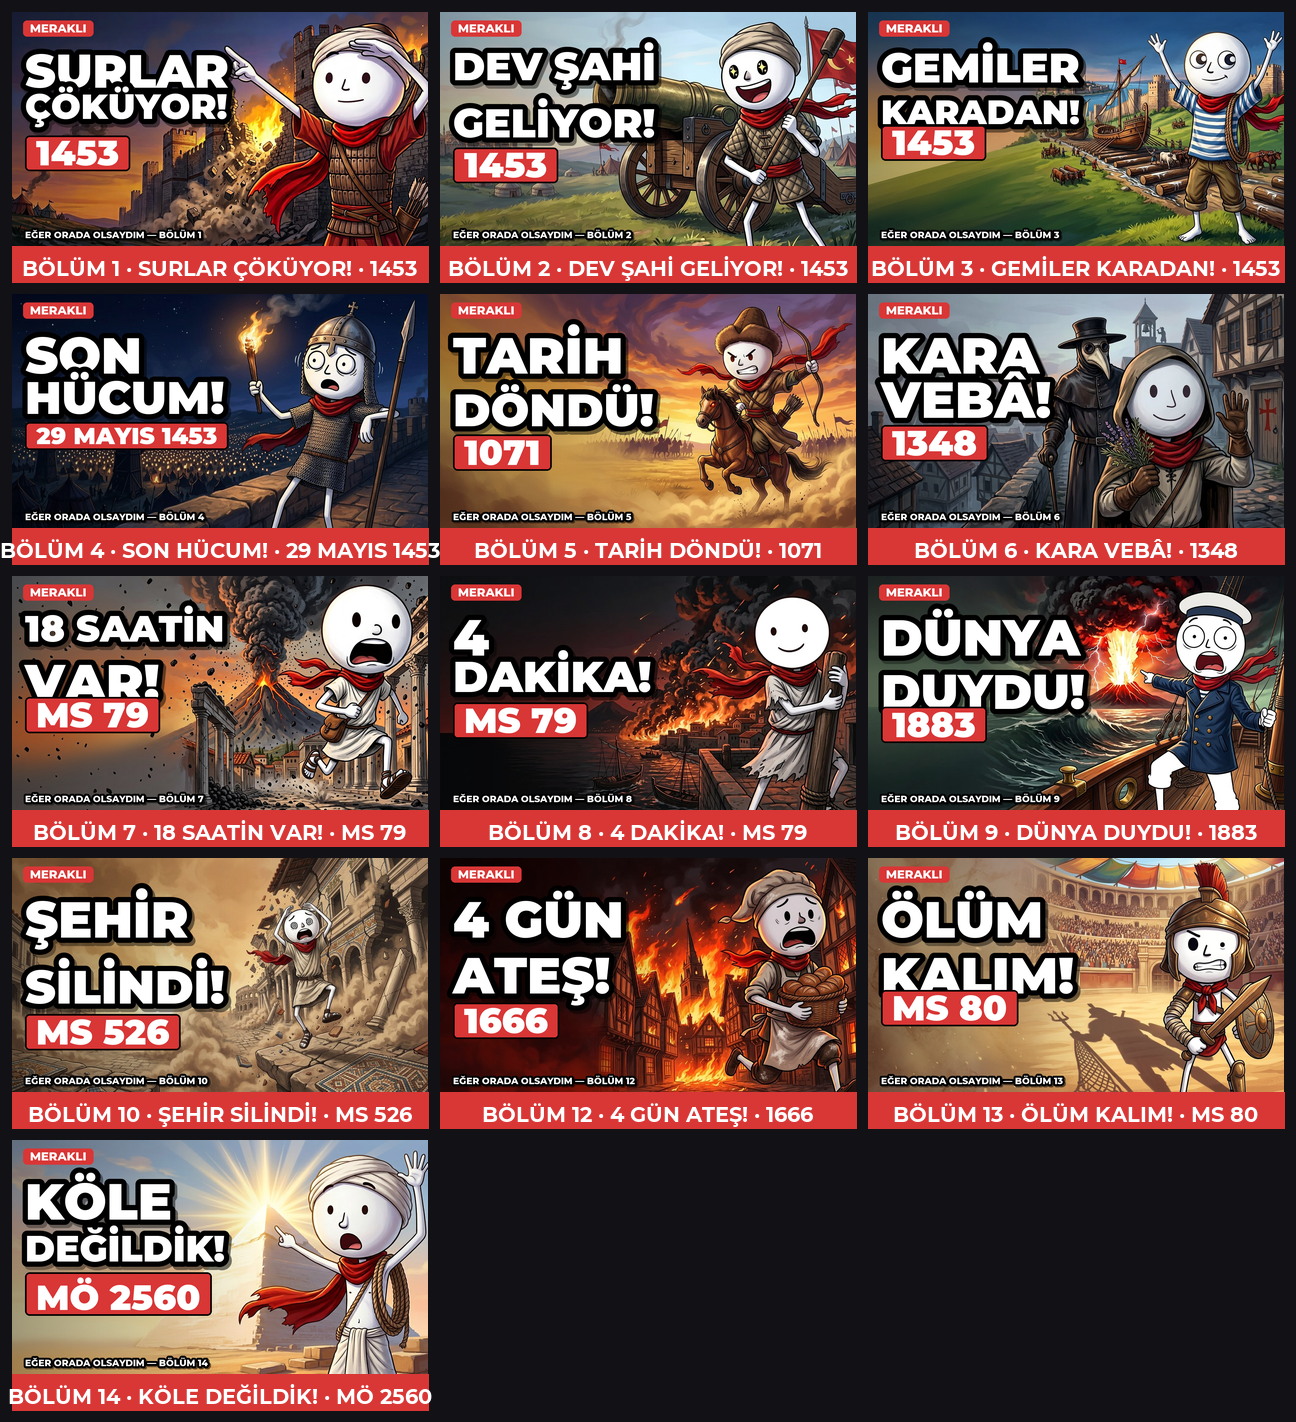
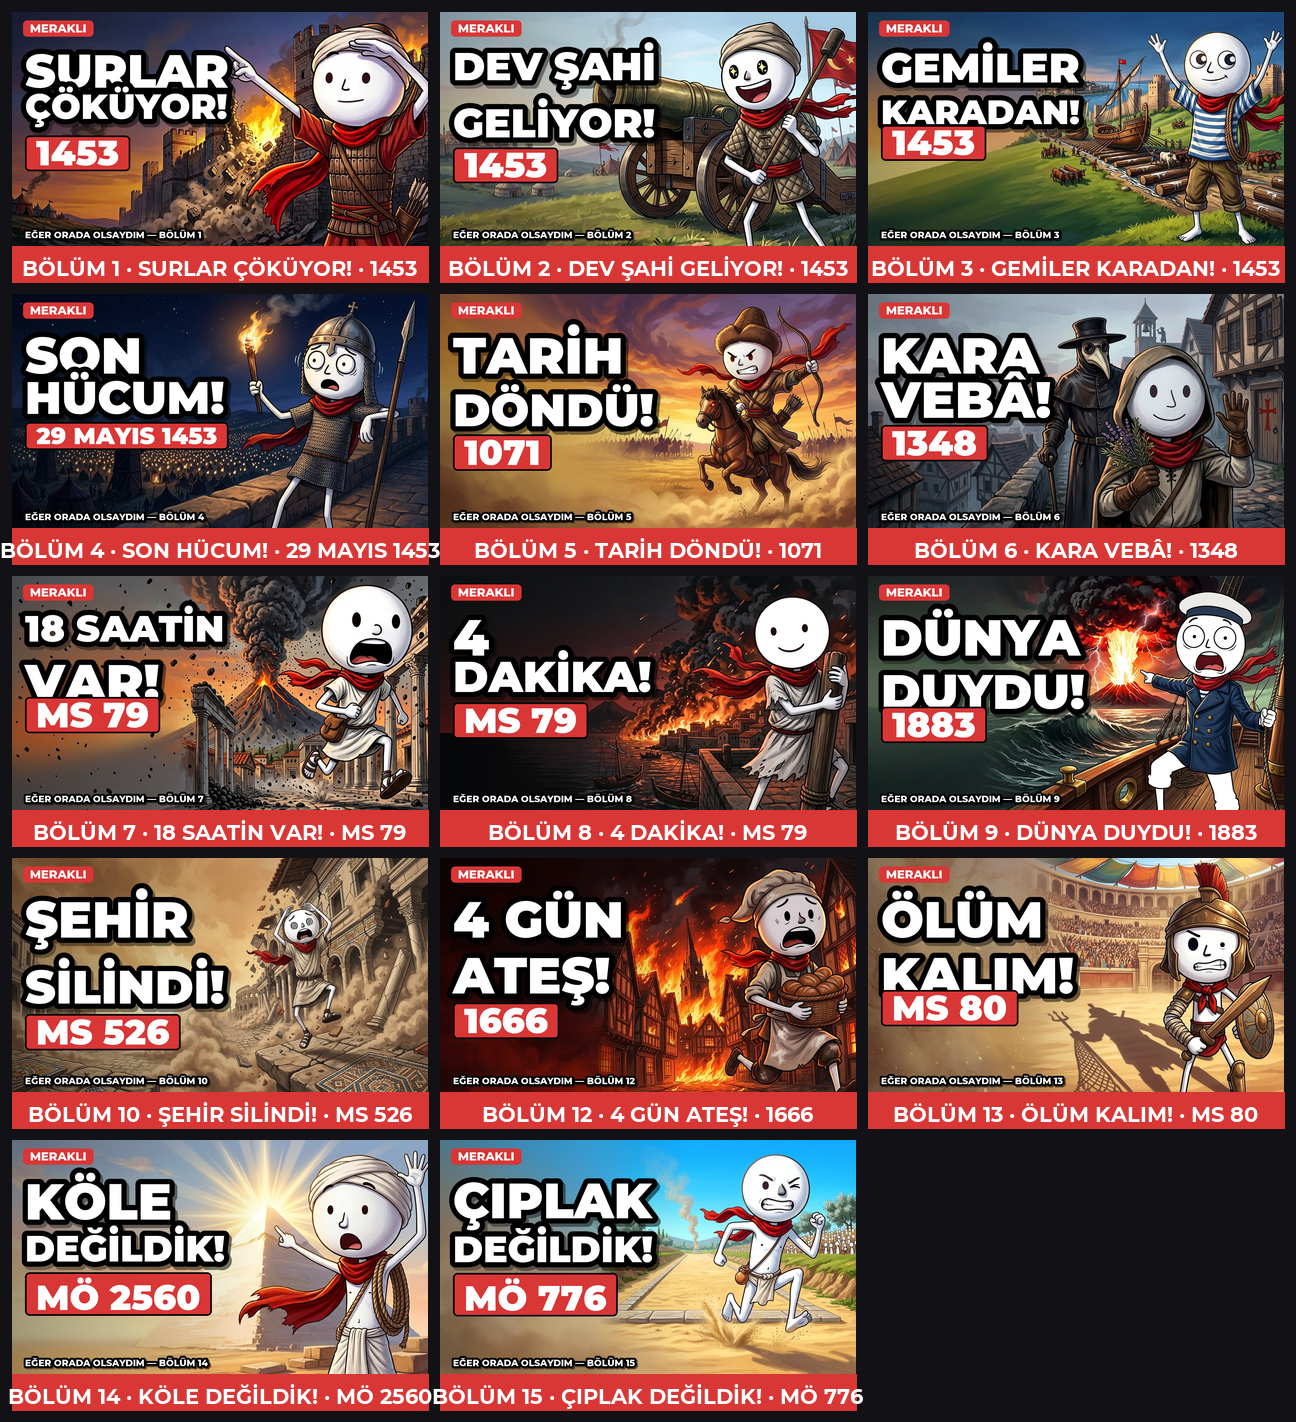
B015 MÜHÜR: YAYIN.md (20 damga + dürüst tarih notu: peştemal/776, tapınak yok, ateşkes güvenli geçiş, Hippias sözlü gelenek, meşale 1936) + SFX künyesi B015 + v4 kapak bolum-015.png (ÇIPLAK DEĞİLDİK! / MÖ 776) + ONIZLEME 14 kapak + YOL_HARİTASI B15 ✅ + BOLUM-PLANI mühür

Changed region(s): [[0.3395, 0.8045, 0.679, 1.0]]

diff --git a/araclar/thumbnail_yap.py b/araclar/thumbnail_yap.py
@@ -54,6 +54,7 @@ BOLUMLER = {
     "012": dict(buyuk="4 GÜN\nATEŞ!", vurgu="1666"),
     "013": dict(buyuk="ÖLÜM\nKALIM!", vurgu="MS 80"),
     "014": dict(buyuk="KÖLE\nDEĞİLDİK!", vurgu="MÖ 2560"),
+    "015": dict(buyuk="ÇIPLAK\nDEĞİLDİK!", vurgu="MÖ 776"),
 }
 
 

diff --git a/bolumler/015-ilk-olimpiyat/YAYIN.md b/bolumler/015-ilk-olimpiyat/YAYIN.md
@@ -1,0 +1,86 @@
+# BÖLÜM 015 — İLK OLİMPİYAT KOŞUCUSU MÖ 776 · YAYIN DOSYASI (YALNIZ UZUN VİDEO)
+
+Rol: MÖ 776'da Olimpia'da stadyum koşucusu Meraklı (kurgu karakter;
+Koroibos'un ilk kayıtlı şampiyonluğu, stadion ölçüsü 192,27 m, ateşkes
+ekecheiria, Hellanodikai, kotinos ve Heraia tarihsel dayanaklıdır —
+başlıca kaynaklar Hippias/Pausanias kazanan listeleri, Yunan Kültür
+Bakanlığı Olimpia kazı sayfası ve Metropolitan Museum/Olympic.org
+dokümantasyonudur).
+Not: Konu 24 (Seri C — Antik Yaşam) bu bölümde işlenmiştir.
+
+---
+
+## VİDEO — UZUN VİDEO (ana bölüm)
+
+**Dosya:** `uzun/merakli-015-uzun-olimpiyat.mp4` · 10:08 · 1920×1080 · 20 sahne
+**Küçük resim:** `kapaklar/thumbnail/bolum-015.png` (1280×720, v4 standardı)
+
+### BAŞLIK (kopyala-yapıştır)
+
+```
+EĞER MÖ 776'DA OLSAYDIM: OLİMPİA — İlk Olimpiyat Koşucusu 🏃🫒 [TAM BÖLÜM]
+```
+
+### AÇIKLAMA (kopyala-yapıştır)
+
+```
+MÖ 776, Olimpia. Ben Meraklı: tarihin ilk kayıtlı yarışına
+diziliyorum. Peştemalım belimde, yağ şişem kemerimde... ve sana bir
+sır: bildiğin "çıplak atlet" imajı henüz icat edilmedi!
+
+Bu bölümde:
+⏱ 0:04 — OLİMPİA'YA GİDEN YOL
+⏱ 0:31 — DÖRT YILDA BIR FESTİVAL
+⏱ 0:59 — EKECHEİRİA: KUTSAL ATEŞKES
+⏱ 1:34 — ÇINAR ALTI GECE
+⏱ 2:02 — ALTİS: MERMER YOK!
+⏱ 2:35 — KAYIT VE YEMİN
+⏱ 3:03 — ATLET KAMPI
+⏱ 3:34 — ÇIPLAK DEĞİL — HENÜZ!
+⏱ 4:06 — ZEYTİNYAĞI RİTÜELİ
+⏱ 4:40 — BALBİS: START TAŞI
+⏱ 5:11 — KOROİBOS
+⏱ 5:41 — TEK DAL: STADION
+⏱ 6:09 — SEYİRCİ BAYIRLARI
+⏱ 6:35 — HERAİA: KIZLARIN KOŞUSU
+⏱ 7:03 — FESTİVAL SABAHI
+⏱ 7:30 — YARIŞ ANI
+⏱ 7:54 — SONUÇ: İLK ŞAMPİYON
+⏱ 8:20 — KOTİNOS
+⏱ 8:51 — DÜRÜST TARİH
+⏱ 9:22 — 2772 YIL SONRA
+(Zaman damgaları yaklaşıktır; YouTube Studio'da ince ayar yapın.)
+
+📌 DÜRÜST TARİH NOTU: "Koşucu Meraklı" kurgu bir karakterdir. Gerçek
+olan: İlk KAYITLI Olimpiyat MÖ 776'da tek dal olarak koşuldu;
+kazanan Elis'li aşçı-fırıncı Koroibos'tur (stadion: 600 ayak ≈ 192,27
+m). Listeler, Elis'li Hippias'ın MÖ ~400 derlemesinden gelir (büyük
+ölçüde sözlü gelenek); "776'dan önceki oyunlar" rivayettir. 776'da
+atletler ÇIPLAK DEĞİLDİ — perizoma (peştemal) giyiyorlardı; çıplak
+yarışma Megaralı Orsippos ile MÖ 720'de başlar. Olimpia şehir değil
+kutsal kordur (Altis); Büyük Zeus Tapınağı ve heykeli ~300 yıl sonra
+yapılacaktır. Ekecheiria ateşkesi SAVAŞLARI DURDURMAZ; yolculara ve
+kutsal alana güvenli geçiş sağlar. Evli kadınların izlemesi yasaktı
+(istisna: Demeter rahibesi); kızların ayrı festivali Heraia'dır.
+Resmî ödül yabani zeytin çelengi kotinos'tur; para yoktur — şampiyona
+şehrinde ziyafet ve ayrıcalıklar verilir. Kurban sahnesi yalnızca
+sunak dumanıyla temsil edilmiştir. Antik oyunda MEŞALE KOŞUSU YOKTUR;
+bugünkü alev töreni 1936'da doğmuştur. Gerilim vuruşları MODERN
+DAVUL (Taiko) ANALOJİSİDİR; MÖ 776'dan özgün ses kaydı yoktur.
+
+Seslendirme: MERAKLI (voice-02) · Görseller: MERAKLI evreni
+Bir "Eğer Orada Olsaydım" hikâyesi.
+```
+
+### ETİKETLER
+
+```
+olimpiyat, antik yunanistan, mÖ 776, olimpia, koroibos, ilk olimpiyat, stadyum koşusu, kotinos, zeytin çelengi, heraia, antik spor, arkeoloji, tarih belgeseli, eğer orada olsaydım, meraklı, antik yaşam
+```
+
+---
+
+## Yayın kontrol listesi
+- [ ] `bolum-015.png` kapağını yükle (v4: büyük başlık + kırmızı kutu vurgu)
+- [ ] Zaman damgalarını Studio'da ince ayarla
+- [ ] Shorts YOK (kalıcı format kuralı)

diff --git a/sfx/SFX_KAYITLARI.md b/sfx/SFX_KAYITLARI.md
@@ -300,3 +300,24 @@ künyesini ve genel arşiv envanterini tutar.
 - Sargı/bezin hışırtısı: Owlish `blanket-movement-1` (CC0)
 - Gerilim vuruşu: 0ad `Taiko_2` — **modern davul analojisi**
 - Müzik: 0ad `The_Hellespont.ogg` (CC-BY-SA)
+
+---
+
+## BÖLÜM 015 — İLK OLİMPİYAT KOŞUCUSU (uzun video)
+
+- Koşu/adım: Owlish `hard-footstep2/3` (CC0)
+- Nefes/heyecan: Owlish `breath-male`, `gasp1` (CC0)
+- Kalabalık/bayır: Owlish `clamour1-7`, `solo-clap`, `laugh1` (CC0) — temsili
+- Nehir/Kladeos: 0ad `water/wave_21` (CC-BY-SA)
+- Kamp ateşi/sunak: PagDev `fire_loop` (CC0) — kurban yalnız DUMAN ile
+  temsil edilmiştir (hayvan görüntüsü yok)
+- Yağ/strigil sürtünmesi: Owlish `scrape1/2` (CC0) — temsili
+- Gece kampı: Owlish `blanket-movement-1` (CC0)
+- Kayıt/liste/Hippias: Owlish `pencil-scratch-1`, `pageturn1`, `tap` (CC0)
+- Kamp çanağı: OpenHV `klink` (CC0)
+- Zafer/çelenk: JaggedStone `magical_1` (CC0) — temsili
+- Gerilim vuruşu: 0ad `Taiko_1/2` — **MODERN DAVUL ANALOJİSİ**
+  (MÖ 776'dan özgün kayıt yoktur; beyan)
+- Geçiş: qubodup `swosh-01` (CC0)
+- Ortam: 0ad `day_temperate_11`, `wind_11` (CC-BY-SA)
+- Müzik: 0ad `The_Hellespont.ogg` (CC-BY-SA)

diff --git a/docs/YOL_HARITASI.md b/docs/YOL_HARITASI.md
@@ -38,7 +38,7 @@ Durum: 🟥 üretimde · 🟧 sıradaki · ⬜ planlandı
 |---|---|---|---|---|
 | 13 | 13 | 80 MS, Roma | Gladyatör: ilk kez arenaya çıkıyorum | ✅ |
 | 14 | 14 | ~MÖ 2560, Giza | Piramit işçisinin bir günü (ücret, bira, rampa) | ✅ |
-| 15 | 24 | MÖ 776, Olimpia | İlk Olimpiyat koşucusu (çıplak, zeytin yağı) | ⬜ |
+| 15 | 24 | MÖ 776, Olimpia | İlk Olimpiyat koşucusu (çıplak, zeytin yağı) | ✅ |
 | 16 | 35 | MÖ 399, Atina | Kartaca kuşatmasında sivil (MÖ 149-146) — veya Sokrates duruşması izleyicisi (Konu 34) | ⬜ |
 | 17 | 36 | MS 2. yy, limes | Roma lejyoneri sınır karakolunda sıradan gün | ⬜ |
 | 18 | 34 | MÖ 399, Atina | Sokrates'in yargılanması: mahkeme salonunda | ⬜ |

diff --git a/bolumler/015-ilk-olimpiyat/BOLUM-PLANI.md b/bolumler/015-ilk-olimpiyat/BOLUM-PLANI.md
@@ -1,5 +1,9 @@
 # BÖLÜM 015 PLANI — İLK OLİMPİYAT KOŞUCUSU MÖ 776 (stadyum koşucusu Meraklı)
 
+> 🔒 **MÜHÜR (2026-10-18):** Tamamlandı — `uzun/merakli-015-uzun-olimpiyat.mp4`
+> 10:07.8 · x1.120 · −14.2 LUFS · TP −1.3 · 90,6 MB · 78 efekt ·
+> kapak `bolum-015.png` (v4: "ÇIPLAK DEĞİLDİK!" / MÖ 776). YAYIN.md hazır.
+
 **Format: YALNIZ UZUN VİDEO (kalıcı kural).** Klasör: `bolumler/015-ilk-olimpiyat/`
 Çıktı: `uzun/merakli-015-uzun-olimpiyat.mp4` · 20 sahne · 5-10 dk · 16:9 ·
 voice-02 · altyazı YOK · giriş kartı + tarih bantları + kapanış + abone.
